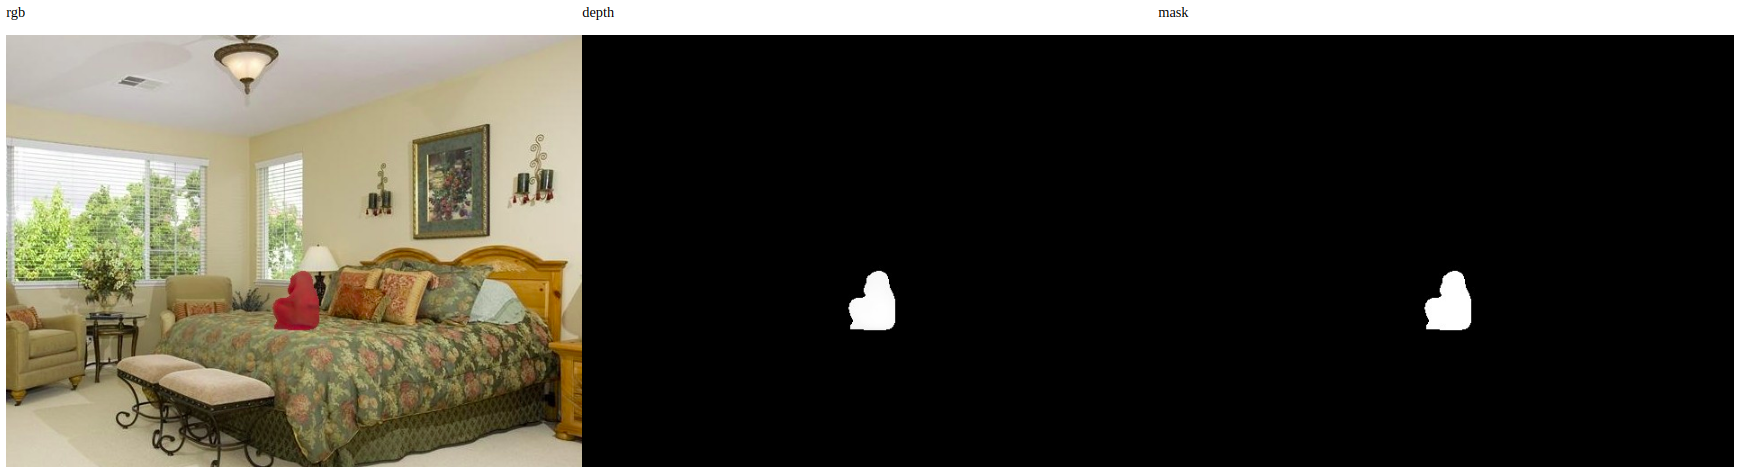
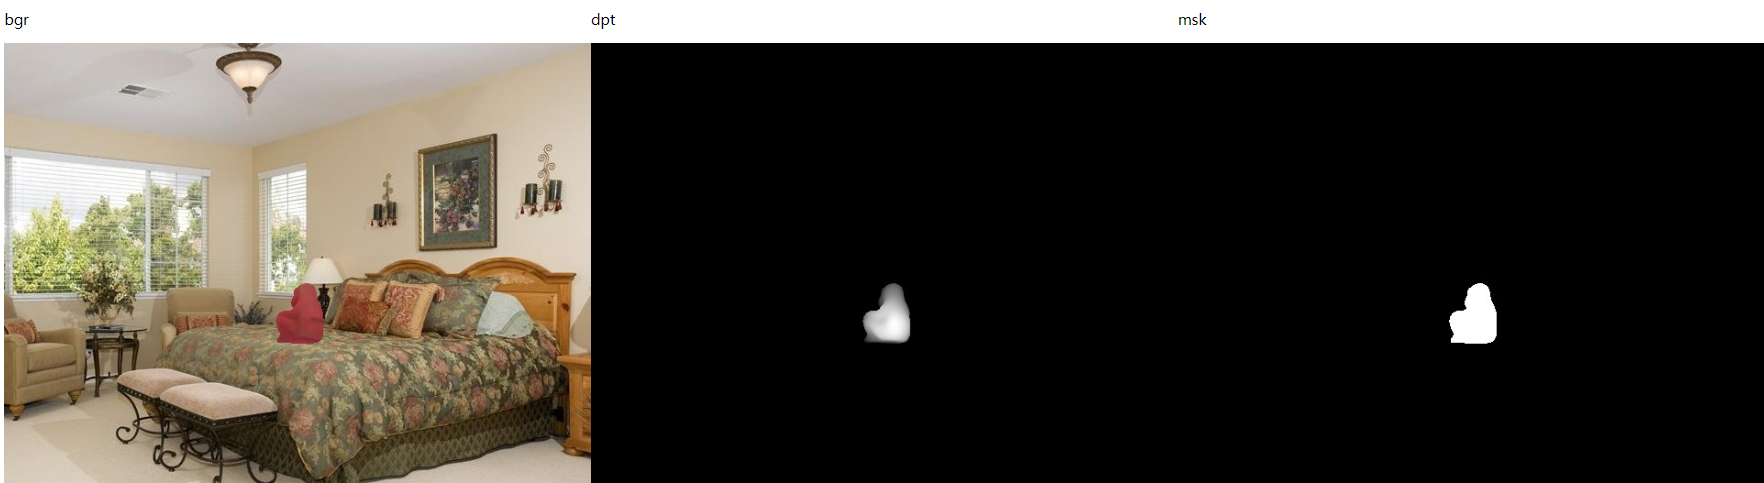
add visulization option, update README.md

diff --git a/rgbd_renderer.py b/rgbd_renderer.py
@@ -34,6 +34,10 @@ parser.add_argument(
     '--DEBUG', action="store_true",
     help="To show the generated images or not."
 )
+parser.add_argument(
+    '--vis', action="store_true",
+    help="visulaize generated images."
+)
 args = parser.parse_args()
 DEBUG = args.DEBUG
 
@@ -185,6 +189,21 @@ class LineModRenderDB():
             msk_3c = np.repeat(msk[:, :, None], 3, axis=2)
             bgr = bg * (msk_3c <= 0).astype(bg.dtype) + bgr * (msk_3c).astype(bg.dtype)
             rgb = cv2.cvtColor(bgr, cv2.COLOR_BGR2RGB)
+
+            if args.vis:
+                try:
+                    from neupeak.utils.webcv2 import imshow, waitKey
+                except:
+                    from cv2 import imshow, waitKey
+                imshow("bgr", bgr.astype("uint8"))
+                show_zbuf = zbuf.copy()
+                min_d, max_d = show_zbuf[show_zbuf > 0].min(), show_zbuf.max()
+                show_zbuf[show_zbuf>0] = (show_zbuf[show_zbuf>0] - min_d) / (max_d - min_d) * 255
+                show_zbuf = show_zbuf.astype(np.uint8)
+                imshow("dpt", show_zbuf)
+                show_msk = (msk / msk.max() * 255).astype("uint8")
+                imshow("msk", show_msk)
+                waitKey(0)
 
             data = {}
             data['depth'] = zbuf
